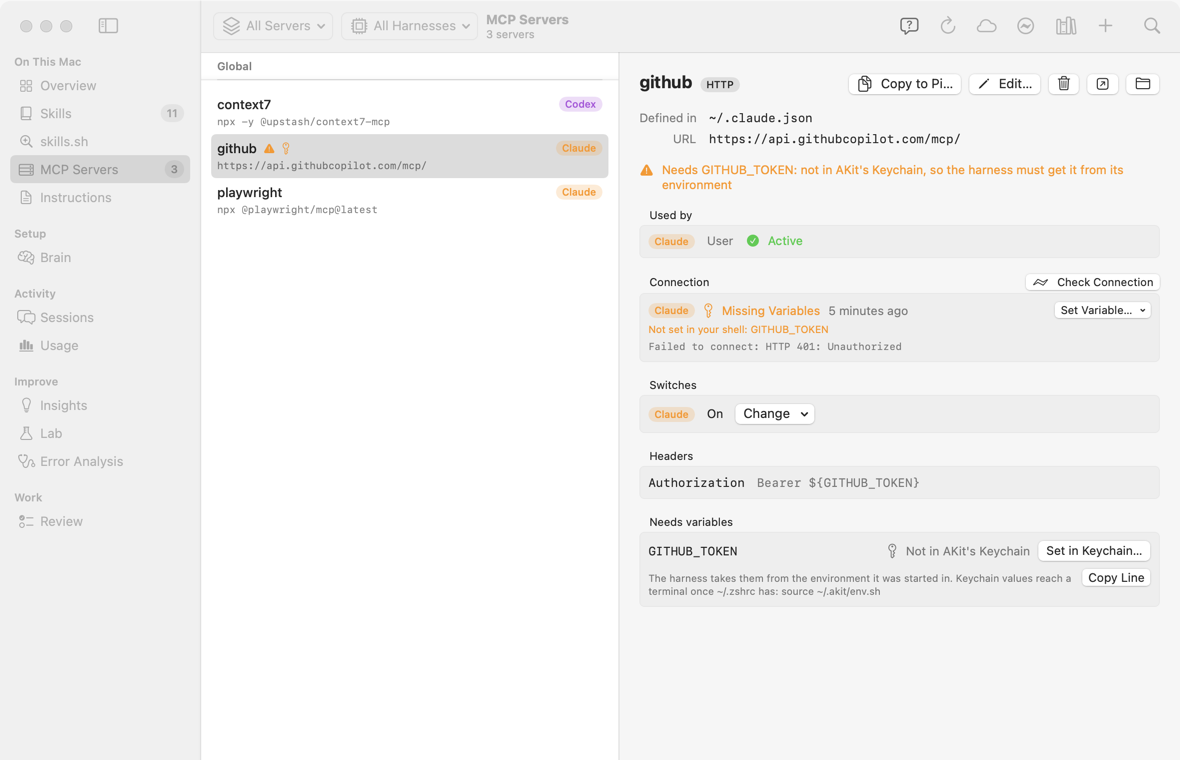
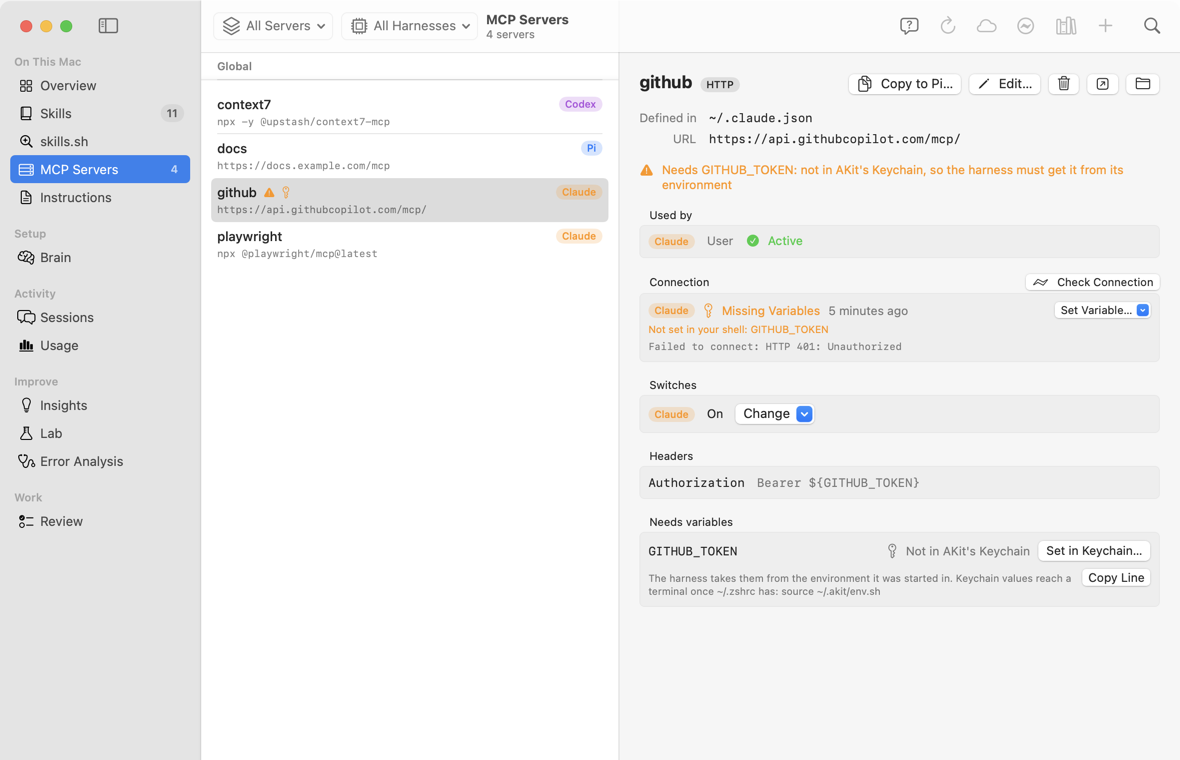
Show the tools of a Pi MCP server from its last check

diff --git a/AKit/MCPCheckViews.swift b/AKit/MCPCheckViews.swift
@@ -250,9 +250,7 @@ struct MCPCheckRow: View {
                     Text(result.checkedAt.formatted(.relative(presentation: .named)))
                         .foregroundStyle(.secondary)
                         .help(result.checkedAt.formatted(date: .abbreviated, time: .standard))
-                    if let tools = result.tools, result.state == .connected {
-                        Text("\(tools.count) tool\(tools.count == 1 ? "" : "s")").foregroundStyle(.secondary)
-                    }
+
                 } else {
                     Text("Not checked yet").foregroundStyle(.secondary)
                 }
@@ -266,6 +264,9 @@ struct MCPCheckRow: View {
                         .font(.caption)
                         .foregroundStyle(.orange)
                 }
+                if let tools = result.tools, !tools.isEmpty, result.state == .connected {
+                    MCPToolList(tools: tools, exposure: result.exposure, toolExposure: result.toolExposure ?? [:])
+                }
                 if let fixError {
                     Text(fixError).font(.caption).foregroundStyle(.orange).textSelection(.enabled)
                 }
@@ -278,5 +279,46 @@ struct MCPCheckRow: View {
                 }
             }
         }
+    }
+}
+
+/// Pi's answer about a connected server: its tools and how each reaches the model
+/// (`exposure` of the server, `toolExposure` where a tool differs). Only shown, never changed.
+struct MCPToolList: View {
+    let tools: [String]
+    let exposure: String?
+    let toolExposure: [String: String]
+    /// A short list is open from the start.
+    @State private var expanded: Bool
+
+    init(tools: [String], exposure: String?, toolExposure: [String: String]) {
+        self.tools = tools
+        self.exposure = exposure
+        self.toolExposure = toolExposure
+        _expanded = State(initialValue: tools.count <= 5)
+    }
+
+    var body: some View {
+        DisclosureGroup(isExpanded: $expanded) {
+            VStack(alignment: .leading, spacing: 2) {
+                ForEach(tools, id: \.self) { tool in
+                    HStack(spacing: 6) {
+                        Text(tool).font(.caption.monospaced()).textSelection(.enabled)
+                        if let own = toolExposure[tool] {
+                            Text(own)
+                                .font(.caption2.weight(.medium))
+                                .foregroundStyle(.orange)
+                                .help("This tool's exposure differs from the server's (\(exposure ?? "codemode"))")
+                        }
+                    }
+                }
+            }
+            .frame(maxWidth: .infinity, alignment: .leading)
+            .padding(.top, 2)
+        } label: {
+            Text("\(tools.count) tool\(tools.count == 1 ? "" : "s")" + (exposure.map { " · \($0)" } ?? ""))
+        }
+        .font(.caption)
+        .help("The tools Pi listed at the last check. Exposure: codemode (scripts find them), deferred (tool_search loads them), direct (always declared), hidden")
     }
 }

diff --git a/AKit/MCPView.swift b/AKit/MCPView.swift
@@ -120,6 +120,10 @@ struct MCPView: View {
         .onChange(of: model.mcpFilter) { keepSelectionVisible() }
         .onChange(of: model.mcpServers) {
             keepSelectionVisible()
+            // Snapshot mode: `--select NAME` shows that server.
+            if let name = DebugSnapshot.options?.select, let server = filtered.first(where: { $0.name == name }) {
+                selection = server.id
+            }
             // Snapshot mode: `--tab edit` / `--tab delete` opens the editor on the first listed server.
             if let tab = DebugSnapshot.options?.tab, editor == nil, let server = filtered.first {
                 if tab == "edit" { editor = EditorRequest(mode: .edit(server)) }

diff --git a/docs/guides/screens.ru.md b/docs/guides/screens.ru.md
@@ -1299,7 +1299,7 @@ akit remove skill ИМЯ --everywhere
 - «Добавил сервер, а агент его не видит» → в карточке сервера блок **Connection**, кнопка **Check Connection**.
 - «Сервер есть в Claude Code, хочу его и в Pi» → кнопка **Copy to Pi…** в шапке карточки.
 
-![Экран MCP Servers: слева группа Global с серверами context7, github и playwright и значками агентов Codex и Claude, у github значок ключа от последней проверки; справа карточка сервера github с предупреждением Needs GITHUB_TOKEN, блоками Used by, Connection (Claude · Missing Variables · 5 minutes ago, строки Not set in your shell: GITHUB_TOKEN и Failed to connect: HTTP 401: Unauthorized, кнопки Set Variable… и Check Connection), Switches (состояние On, меню Change), Headers и Needs variables с кнопками Set in Keychain… и Copy Line; в шапке кнопки Copy to Pi…, Edit…, Delete…, открыть в редакторе, Show in Finder; в панели инструментов All Servers, All Harnesses, Refresh, облако claude.ai Connectors, Check All, Catalog…, Add Server…](images/mcp.png)
+![Экран MCP Servers: слева группа Global с серверами context7, docs, github и playwright и значками агентов Codex, Pi и Claude, у github значок ключа от последней проверки; справа карточка сервера github с предупреждением Needs GITHUB_TOKEN, блоками Used by, Connection (Claude · Missing Variables · 5 minutes ago, строки Not set in your shell: GITHUB_TOKEN и Failed to connect: HTTP 401: Unauthorized, кнопки Set Variable… и Check Connection), Switches (состояние On, меню Change), Headers и Needs variables с кнопками Set in Keychain… и Copy Line; в шапке кнопки Copy to Pi…, Edit…, Delete…, открыть в редакторе, Show in Finder; в панели инструментов All Servers, All Harnesses, Refresh, облако claude.ai Connectors, Check All, Catalog…, Add Server…](images/mcp.png)
 
 #### Что на экране
 <!-- section: mcp-screen -->
@@ -1372,7 +1372,7 @@ akit remove skill ИМЯ --everywhere
 
 Состояния:
 
-- **Connected**: агент подключился. Для Pi рядом число инструментов, например «12 tools».
+- **Connected**: агент подключился. Для Pi под строкой список инструментов сервера, например «3 tools · codemode» (подробнее ниже).
 - **Failed**: агент не подключился. Ниже текст ошибки от агента.
 - **Missing Variables**: сервер не подключился, и в терминале нет переменной, которая ему нужна. Строка «Not set in your shell: …» называет её. Справа кнопка **Set Variable…**: выберите переменную, вставьте значение и нажмите **Save**, потом **Done**. AKit сохранит значение в Keychain и проверит сервер снова.
 - **Needs Sign-In**: серверу нужен вход через браузер (OAuth). Справа кнопка **Sign In…**: AKit запускает `claude mcp login имя` или `pi mcp login имя`, агент открывает браузер. После входа AKit проверяет сервер снова. Агент ждёт вход до 5 минут.
@@ -1381,6 +1381,15 @@ akit remove skill ИМЯ --everywhere
 - **Off**: сервер выключен переключателем или в настройках агента.
 - **Timed Out**: агент не ответил за 90 секунд. Нажмите **Check Connection** ещё раз.
 - **Not Found**: агент не видит сервер в этой папке.
+
+Инструменты сервера Pi:
+
+- Под строкой **Connected** у Pi есть список «N tools · способ». Короткий список (до 5) открыт сразу, длинный открывается стрелкой.
+- Способ (exposure) показывает, как инструменты доходят до модели: **codemode** — скрипты модели находят их сами, **deferred** — их загружает `tool_search`, **direct** — они всегда в запросе, **hidden** — модель их не видит.
+- Оранжевая метка у инструмента, например **direct**, значит, что у него свой способ, не как у сервера.
+- Список только для чтения. Он такой, каким его дал Pi при последней проверке.
+
+![Карточка сервера docs агента Pi: блок Used by (Pi global, Active), блок Connection со строкой Pi · Connected · 5 minutes ago и открытым списком 3 tools · codemode: search_docs с оранжевой меткой direct, read_page, list_sources; в шапке кнопки Copy to Claude Code…, Edit…, Delete…](images/mcp-tools.png)
 
 > **Важно:** AKit читает только состояние и текст ошибки. Значения переменных из ответа агента AKit не показывает и не сохраняет. Итог последней проверки лежит в `~/.akit/mcp-checks.json`.
 

diff --git a/docs/design/README.md b/docs/design/README.md
@@ -53,7 +53,7 @@ change, change the setup. The sidebar groups follow it (Setup, Activity, Improve
 | [`model-guidance.md`](model-guidance.md) | What should change in the setup for a new model, and how does one model get its own text? | (proposal) Lab → New Run… → Model Guidance; Insights finding "New model"; `model_notes:` in a layer; `akit lab guidance` | — (proposal 2026-10-11, user review open) | everything: step 0 (facts to verify), model notes with delivery by the Claude Code hook and the Pi extension, the guidance review, the eval rule |
 | [`instructions.md`](instructions.md) | Which instruction files (AGENTS.md, CLAUDE.md) reach the agent in a project, and how to move or dedupe their sections like skills? | On This Mac → Instructions: Duplicates (N), Remove This Copy…, Import to Brain…, Move to Global… / Move to Project…, Edit…, Rewrite with Skill…; `akit instructions` | step 0: the loading rules of Claude Code, Pi, Codex and OpenCode, checked 2026-10-14; step 1: the Instructions screen and `akit instructions` (`AKitInstructions`, 2026-10-14); step 2: duplicate sections, Duplicates (N), twice / differs lines (2026-10-14); step 3: Remove This Copy… for a repeated section (`InstructionEdit`, 2026-10-14); step 4: Import to Brain… (`InstructionImport`, 2026-10-14); step 5: Move to Global… / Move to Project… (`InstructionMove`, 2026-10-14); Edit… and Rewrite with Skill… (2026-10-14) | a brain-rendered project as a Move to Project target; files in subfolders that load later |
 | [`mcp-catalog.md`](mcp-catalog.md) | How to add an MCP server without looking up its config? | MCP Servers → Catalog… | search in two public catalogs, filling the Add Server form (2026-10-04) | marks for configured servers, arguments as values, version checks |
-| [`mcp-check.md`](mcp-check.md) | Does an MCP server connect, and what to do when it doesn't? | MCP Servers → Connection: Check Connection, Check All, Sign In…, Approve…, Set Variable…; `akit mcp check`, `akit mcp approve`; Copy to Pi… / Copy to Claude Code…; `akit mcp check` | step 1: the check through `claude mcp get` / `list` and `pi mcp list --json` with the login shell's environment, missing variables, `akit mcp check` (2026-10-24); step 2: the Connection box with Check Connection, Check All, the check after Apply with Edit Again and Undo… (2026-10-24); step 3: Sign In…, Set Variable…, Approve… (the one key of `.claude/settings.local.json`), `akit mcp approve` (2026-10-24); step 4: Copy to Pi… / Copy to Claude Code… (2026-10-24) | step 5 |
+| [`mcp-check.md`](mcp-check.md) | Does an MCP server connect, and what to do when it doesn't? | MCP Servers → Connection: Check Connection, Check All, Sign In…, Approve…, Set Variable…; `akit mcp check`, `akit mcp approve`; Copy to Pi… / Copy to Claude Code…; `akit mcp check` | step 1: the check through `claude mcp get` / `list` and `pi mcp list --json` with the login shell's environment, missing variables, `akit mcp check` (2026-10-24); step 2: the Connection box with Check Connection, Check All, the check after Apply with Edit Again and Undo… (2026-10-24); step 3: Sign In…, Set Variable…, Approve… (the one key of `.claude/settings.local.json`), `akit mcp approve` (2026-10-24); step 4: Copy to Pi… / Copy to Claude Code…; step 5: a Pi server's tools and their exposure (2026-10-24) | single-tool switches; Insights use next to each tool; Codex and OpenCode |
 | [`harness-support.md`](harness-support.md) | What does AKit do for Claude Code and for Pi? | Skills and MCP Servers (switches); `akit skills state`, `akit skills set`, `akit mcp` | the table per feature, with each gap marked as a decision or open (2026-10-09); skill switches per harness, MCP servers off everywhere or in a project, with the verified setting formats (2026-10-10); moving a global skill into projects, Pi's only per-project control (2026-10-11); Model invocation, Auto / Manual in the skill itself or its layer (2026-10-12); all global skills Manual or Auto at once (2026-10-14) | Pi: replays, layer evals, hidden-test tasks, Analysis tab (decisions); `pi-mcp-adapter` fields beyond env and headers (open) |
 | [`machine-setup.md`](machine-setup.md) | What does AKit see on this Mac, and how does a new Mac get set up? | `akit doctor`; Help → Copy Diagnostics; Help → Report a Bug…; Set Up This Mac (proposal) | `akit doctor` (2026-10-09), Help → Copy Diagnostics (2026-10-10), Help → Report a Bug… / Suggest a Feature… (2026-10-11), the Update button for a newer build in the source folder (2026-10-17) | onboarding (proposal, user review open) |
 | [`ask-akit.md`](ask-akit.md) | What does this label, number or badge mean, and what do I do about it? | Toolbar → Ask AKit, Help → Ask AKit (⌥⌘/), right-click → Ask AKit About This | the core (`AKitHelp`: guide sections, prompt, answer, sources), the side panel with agent choice, Stop and New Chat, context menus (2026-10-14); the review round (2026-10-15): Stop ends the harness process, no session text (ids only, redaction backstop), checked links, first-send confirmation and What Was Sent; the AKit Terms glossary guide; the second review (2026-10-15): neutral names for emergent modes and session tasks, whole-word redaction, `systemCharacters` in the send log, a cancellable account check, consent per destination with Settings → Ask before Ask AKit sends | saved chats; About This on the batch difference grid and a few pane lists |

diff --git a/docs/design/mcp-check.md b/docs/design/mcp-check.md
@@ -1,6 +1,6 @@
 # MCP check: does the server connect, and what to do when it doesn't
 
-Status: designed 2026-10-24 (grilling with the user); steps 1–4 built 2026-10-24 (`AKitMCP/MCPCheck.swift`,
+Status: designed 2026-10-24 (grilling with the user); steps 1–5 built 2026-10-24 (`AKitMCP/MCPCheck.swift`,
 `AKitFoundation/LoginShell.swift`, `akit mcp check`, `MCPWriter.undoPlan`, `AKit/MCPCheckViews.swift`, `AKitMCP/MCPApprove.swift`). Steps in [Steps](#steps).
 
 ## Goal
@@ -82,9 +82,11 @@ Add / Edit → Apply ──► check this server ──► Connected ✓
   or the stdio wrapper, Pi's `!security` lookups); a secret written in the source file goes
   into the Keychain, never into the new file; `${VAR}` stays as it is. Offered when a harness
   of the two doesn't read the server yet and has a place to write; not for plugin servers.
-- **Tools are only shown.** The tools of a Pi server from its last check, with their
-  exposure and whether Insights saw them used. No switches for single tools now (Pi
-  `toolExposure`, Claude `mcp__server__tool` deny rules stay read-only).
+- **Tools are only shown.** The tools of a Pi server from its last check, with the
+  server's exposure and each tool whose own exposure differs (`MCPToolList`). No switches
+  for single tools now (Pi `toolExposure`, Claude `mcp__server__tool` deny rules stay
+  read-only). Built without the Insights use of each tool: the app model doesn't hold tool
+  stats (only the Insights screen loads them); see Later.
 - **CLI.** `akit mcp check [NAME] [--harness claude|pi] [--project P]`, the same states and
   error text, exit 1 when a checked server isn't Connected.
 
@@ -96,9 +98,10 @@ Add / Edit → Apply ──► check this server ──► Connected ✓
 | 2 | UI: Check Connection, Check All, the check after Apply, the result with Edit Again and Undo | built 2026-10-24 |
 | 3 | Sign In…, Set Variable…, Approve… and `akit mcp approve` (`AKitMCP/MCPApprove.swift`) | built 2026-10-24 |
 | 4 | Copy to Pi… / Copy to Claude Code… | built 2026-10-24 |
-| 5 | The tools of a Pi server | — |
+| 5 | The tools of a Pi server | built 2026-10-24 |
 
 ## Later
 
 - Switches for single tools (Pi `toolExposure`, Claude deny rules).
 - Codex and OpenCode.
+- Next to each listed tool, whether Insights saw it called (needs the tool stats in the app model).
